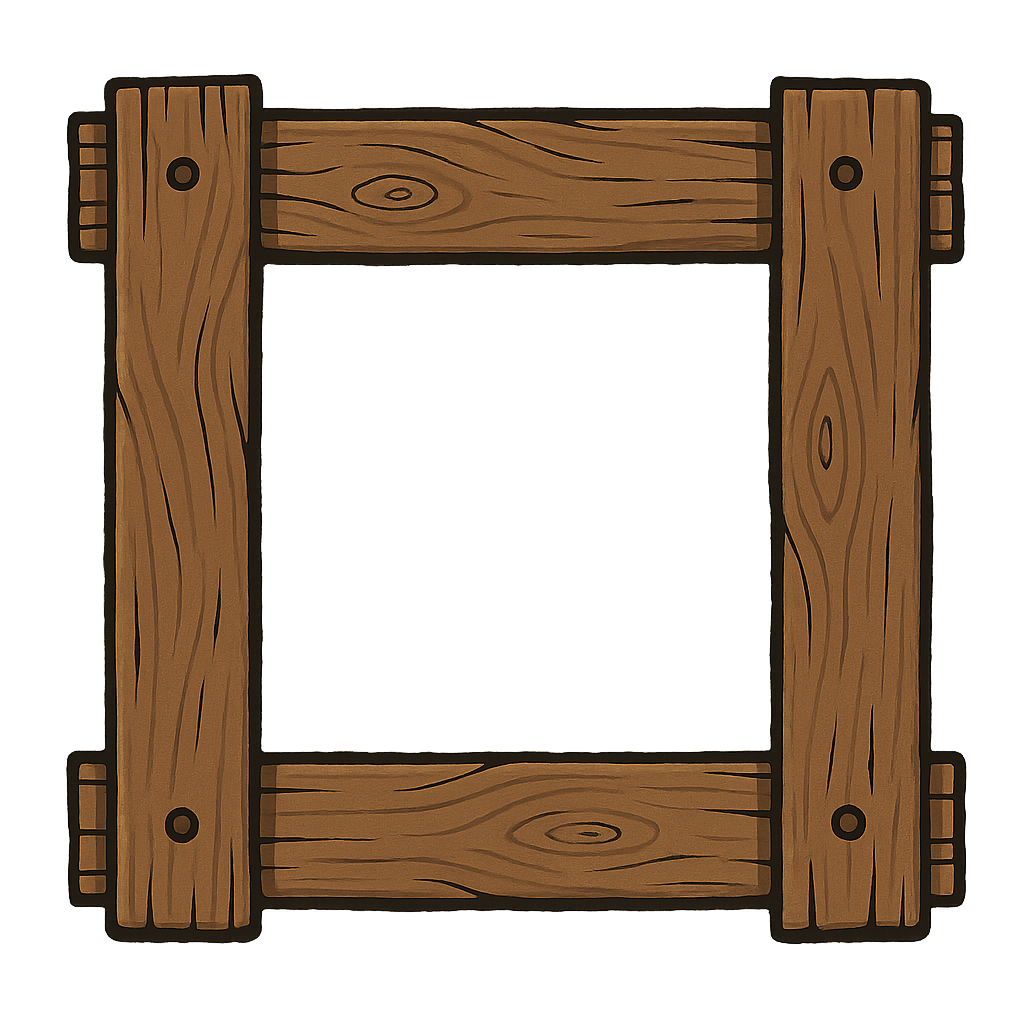
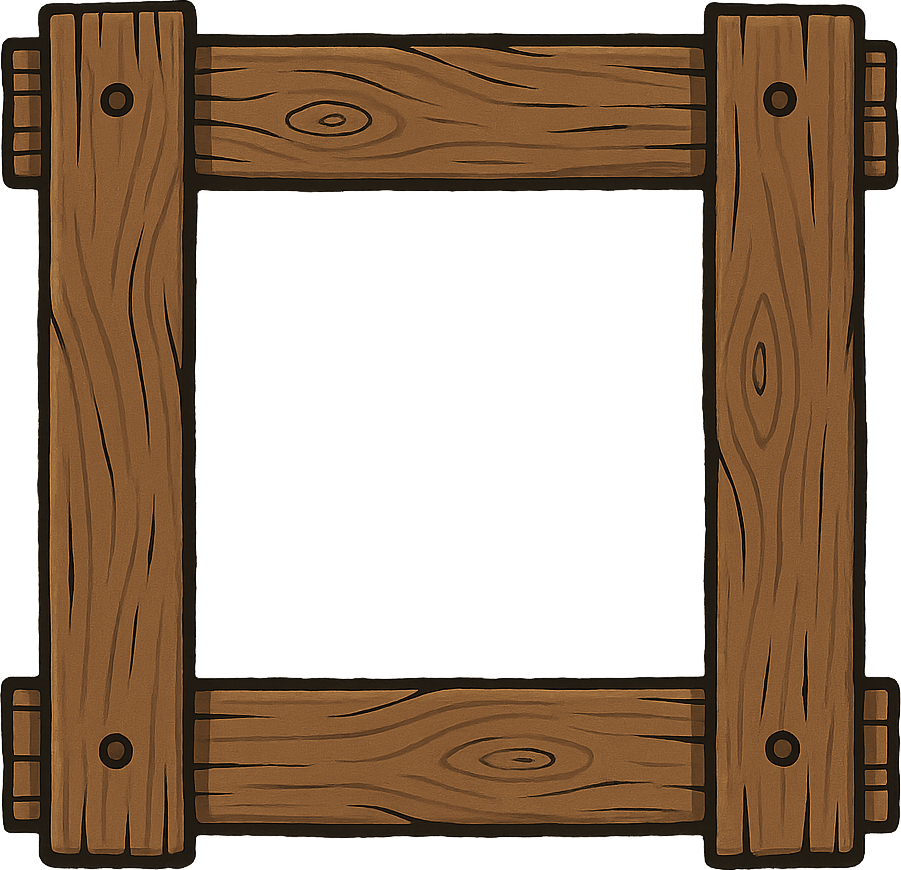
EditatableSheetAria : Correction d'une couleur en BG pas fixée sur les variables
Home : Correction des tables de jeu affichée de manière cassée en mobile

diff --git a/src/components/EditableSheet/EditableSheetAria/EditableSheetAria.tsx b/src/components/EditableSheet/EditableSheetAria/EditableSheetAria.tsx
@@ -3,6 +3,8 @@ import { Character, EditableCharacter } from "../../../types/Character";
 import { BeatLoader } from "react-spinners";
 import { useNavigate } from "react-router-dom";
 import { useUser } from "../../../Context/UserContext";
+//import CharacterFrame from "../../Premium/CharacterFrame/CharacterFrame";
+import ChooseBannerFrame from "../../Premium/ChooseBannerFrame/ChooseBannerFrame";
 import Modal from "../../../components/Modal/Modal";
 import defaultImg from "../../../assets/person-placeholder-5.webp";
 import "./EditableSheetAria.scss";
@@ -442,6 +444,7 @@ export default function EditableSheetAria({ id }: EditableSheetProps) {
   };
   return (
     <div className="character-details">
+      <ChooseBannerFrame/>
       {/*Barres contenant les boutons*/}
       <div className="character-details--button-list">
         <button onClick={toggleSkills}>
@@ -462,11 +465,13 @@ export default function EditableSheetAria({ id }: EditableSheetProps) {
         <div className="character-details__content">
           <div className="character-details__identity">
             <div className="character-details__identity--image">
+             {/*} <CharacterFrame/>*/}
               <img
+                className="character-portrait"
                 src={
                   editedCharacter?.image
                     ? typeof editedCharacter.image === "string"
-                      ? editedCharacter.image // 🔥 URL Cloudinary déjà complète
+                      ? editedCharacter.image
                       : URL.createObjectURL(editedCharacter.image)
                     : defaultImg
                 }

diff --git a/src/pages/Home/Home.scss b/src/pages/Home/Home.scss
@@ -19,7 +19,6 @@
     @include flex-col;
     width: 100%;
 
-    
     h2 {
       text-align: left;
     }
@@ -75,6 +74,12 @@
 
 .prev-tables {
   width: 100%;
+  
+  .divide {
+    @include flex-row;
+    width: 100%;
+    gap: $spacing-small;
+  }
 
   h2 {
     margin: 0;
@@ -87,7 +92,7 @@
     gap: $spacing-small;
 
     li {
-      @include flex-row;
+      @include flex-col;
       align-items: center;
       text-align: left;
       gap: $spacing-medium;
@@ -108,6 +113,7 @@
       img {
         width: 200px;
         min-height: 125px;
+        margin: auto auto auto 0;
         object-fit: cover;
         display: block;
         border-radius: $spacing-small !important;
@@ -121,6 +127,13 @@
 
         &--name {
           font-weight: 800;
+          white-space: nowrap;
+          overflow: hidden;
+          text-overflow: ellipsis;
+          max-width: 360px;
+          display: block;
+          margin: 0 auto 0 0
+          
         }
 
         p {
@@ -149,14 +162,18 @@
 
     .prev-tables {
       &--item {
+
         position: relative;
-        width: 100%;
+        background: none;
+        width: 90%;
+        height: 250px;
         border: none;
 
         img {
           position: absolute;
-          height: 270px;
+          height: 100%;
           z-index: 700;
+          width: 100%;
         }
 
         .table__recap {

diff --git a/src/components/PreviousGame/PreviousGame.tsx b/src/components/PreviousGame/PreviousGame.tsx
@@ -88,6 +88,8 @@ export default function PreviousGame({
                   }
                 }}
               >
+                 <p className={`table__recap--name font-${table?.selectedFont || ""}`}>{table.name}</p>
+                 <div className="divide">
                 {table.bannerImage ? (
                   <img
                   style={{
@@ -113,7 +115,6 @@ export default function PreviousGame({
                 )}
                 <div className="table__recap">
                   <p>
-                  <span className={`table__recap--name font-${table?.selectedFont || ""}`}>{table.name}</span>
                     <span>MJ : {table.gameMasterName}</span>
 
                     <span>
@@ -122,6 +123,7 @@ export default function PreviousGame({
                     <span>Jeu : {table.game}</span>
                   </p>
                 </div>
+                  </div>
               </li>
             ))}
           </ul>

diff --git a/src/components/EditableSheet/EditableSheetAria/EditableSheetAria.scss b/src/components/EditableSheet/EditableSheetAria/EditableSheetAria.scss
@@ -88,8 +88,11 @@
     }    
 
     &--image {
+      @include flex-col;
       position: relative;
       border-radius: 7px;
+      width: 285px;
+      height: 285px;
 
       .fa-pen-to-square {
         position: absolute;
@@ -132,7 +135,7 @@
       margin: 5px 0;
       font-size: 15px;
       justify-content: center;
-      background: rgba(0, 0, 0, 0.699);
+      background: $background-secondary-color;
       border-radius: 0 0 8px 8px;
       padding: 5px 0 !important;
     }
@@ -186,16 +189,13 @@
     @include flex-col;
 
 
-    img {
-      width: 285px;
-      height: 285px;
+    .character-portrait {
+      width: 90%;
+      height: 90%;
       margin: auto;
       object-fit: cover;
       border-radius: 8px 8px 0 0;
-      border-top-left-radius: 0;
-      border-top-right-radius: 0;
-      border-bottom-left-radius: 50% 20%;
-      border-bottom-right-radius: 50% 20%;
+
     }
 
     &--stats,

diff --git a/src/components/Premium/CharacterFrame/CharacterFrame.tsx b/src/components/Premium/CharacterFrame/CharacterFrame.tsx
@@ -1,10 +1,10 @@
 import "./CharacterFrame.scss";
-
+import frame from "../../../assets/Border/b6c4d595-6162-4008-888b-615403828be4.png"
 
 export default function CharacterFrame () {
     return (
         <img 
-        src="" 
+        src={frame} 
         alt="Cadre de pesonnage" 
         className="character-frame" />
     )

diff --git a/src/components/Admin/AdminTodo/AdminToDo.scss b/src/components/Admin/AdminTodo/AdminToDo.scss
@@ -64,7 +64,6 @@
                 display: flex;
                 margin: $spacing-small;
                 margin-left: $spacing-large;
-                width: 100%;
               }
             }
           }

diff --git a/src/components/Premium/CharacterFrame/CharacterFrame.scss b/src/components/Premium/CharacterFrame/CharacterFrame.scss
@@ -1,0 +1,5 @@
+.character-frame {
+    position: absolute;
+    width: 100%;
+    height: 100%;
+}

diff --git a/src/components/Welcome/Welcome.scss b/src/components/Welcome/Welcome.scss
@@ -1,7 +1,7 @@
 
 
 .welcome {
-  width: 50%;
+
   min-width: 200px;
   padding: $spacing-small;
 
